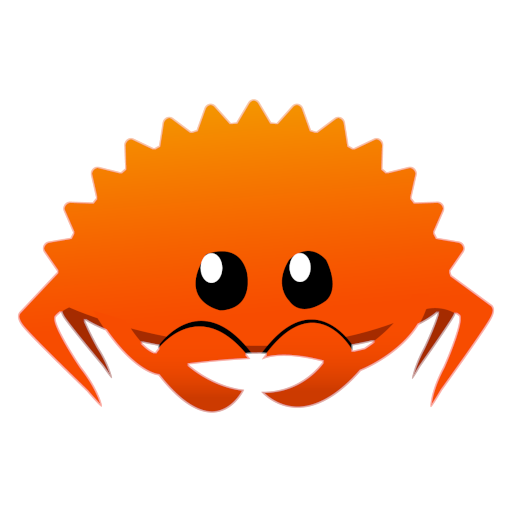
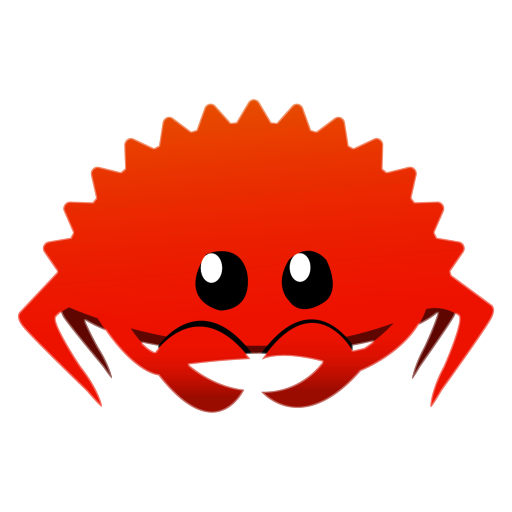
Implement correct gamma correction and post processing

diff --git a/client/src/ec/mod.rs b/client/src/ec/mod.rs
@@ -1,15 +1,28 @@
-use std::ops::{Deref, DerefMut};
+use std::{
+  num::NonZeroU32,
+  ops::{Deref, DerefMut},
+};
 
 use game_core::ec::{register_common_components, register_common_systems, DeltaTime};
+use golem::{ElementBuffer, GeometryMode, Surface, Texture, UniformValue, VertexBuffer};
 use specs::{Dispatcher, DispatcherBuilder};
 use specs::{World, WorldExt};
 use user_input::PointerState;
 
-use crate::{global, render::{DrawingCtx, GraphicsCtx}, webapi_utils::perf_now_f64};
+use crate::{
+  global,
+  render::{view::ViewportInfo, DrawingCtx, GraphicsCtx, ViewportSize},
+  webapi_utils::perf_now_f64,
+};
 
 pub mod components;
 pub mod systems;
 pub mod user_input;
+
+#[derive(Debug, Clone, Copy, Default)]
+pub struct BlurFlags {
+  pub motion_blur_dy: f32,
+}
 
 pub const GAME_SPEED: f32 = 1f32;
 
@@ -18,6 +31,9 @@ pub struct EcCtx {
   game_dispatch: Dispatcher<'static, 'static>,
   render_dispatch: Dispatcher<'static, 'static>,
   last_time: f64,
+  render_surface: Surface,
+  postprocess_quad_buf: VertexBuffer,
+  postprocess_quad_ele: ElementBuffer,
 }
 
 impl EcCtx {
@@ -27,12 +43,30 @@ impl EcCtx {
     register_client_components(&mut world);
     world.insert(DeltaTime::default());
     world.insert(PointerState::default());
+    world.insert(BlurFlags::default());
     world.maintain();
+    let glctx = &graphics.glctx;
+    let mut buf = VertexBuffer::new(glctx).unwrap();
+    buf.set_data(&[
+      -1f32, -1f32, // bl
+      1f32, -1f32, // br
+      1f32, 1f32, // tr
+      -1f32, 1f32, // tl
+    ]);
+    let mut ele = ElementBuffer::new(glctx).unwrap();
+    ele.set_data(&[
+      1, 2, 0, // /|
+      3, // |/
+    ]);
     EcCtx {
       world,
       game_dispatch: build_game_dispatch(),
       render_dispatch: build_render_dispatch(graphics),
       last_time: perf_now_f64(),
+      render_surface: Surface::new(&graphics.glctx, Texture::new(&graphics.glctx).unwrap())
+        .unwrap(),
+      postprocess_quad_buf: buf,
+      postprocess_quad_ele: ele,
     }
   }
 
@@ -53,10 +87,65 @@ impl EcCtx {
     self.world.maintain();
   }
 
+  pub fn resize(&mut self, gctx: &GraphicsCtx) {
+    let ViewportSize {
+      real_width,
+      real_height,
+      ..
+    } = *gctx.viewport_size.borrow();
+    self.render_surface.bind();
+    let mut tex = self.render_surface.take_texture().unwrap();
+    tex.set_image(None, real_width, real_height, golem::ColorFormat::RGB);
+    self.render_surface.put_texture(tex);
+    Surface::unbind(&gctx.glctx);
+  }
+
   pub fn render(&mut self, dctx: DrawingCtx) {
+    let glctx = dctx.glctx;
+    let ViewportSize {
+      real_width,
+      real_height,
+      ..
+    } = dctx.viewport.size;
+    self.render_surface.bind();
+    glctx.set_viewport(0, 0, real_width, real_height);
+    glctx.set_clear_color(
+      (51f32 / 255f32).powf(2.2f32),
+      0f32,
+      (102f32 / 255f32).powf(2.2f32),
+      1f32,
+    );
+    glctx.clear();
     self.world.insert(dctx);
     self.render_dispatch.dispatch(&self.world);
     self.world.remove::<DrawingCtx>();
+    Surface::unbind(glctx);
+    let tex = unsafe { self.render_surface.borrow_texture().unwrap() };
+    let mut shaders = dctx.shaders.borrow_mut();
+    let prog = &mut shaders.postprocess;
+    prog.bind();
+    tex.set_active(NonZeroU32::new(1).unwrap());
+    prog.set_uniform("tex", UniformValue::Int(1)).unwrap();
+    let blur_flags = self.world.read_resource::<BlurFlags>();
+    let view_height = dctx.viewport.tr.y - dctx.viewport.bl.y;
+    let dt = self.world.read_resource::<DeltaTime>().as_secs_f32();
+    prog
+      .set_uniform(
+        "mb_dist",
+        UniformValue::Float(blur_flags.motion_blur_dy * dt / view_height / 2f32),
+      )
+      .unwrap();
+    drop(blur_flags);
+    unsafe {
+      prog
+        .draw(
+          &self.postprocess_quad_buf,
+          &self.postprocess_quad_ele,
+          0..4,
+          GeometryMode::TriangleStrip,
+        )
+        .unwrap();
+    }
     self.pointer_state_mut().frame();
   }
 

diff --git a/client/src/world_manager/mod.rs b/client/src/world_manager/mod.rs
@@ -1,14 +1,10 @@
 use std::collections::HashMap;
 
-use crate::{
-  ec::components::{
+use crate::{ec::{BlurFlags, components::{
     bell::OurJumpableBell,
     player::{OurPlayer, OurPlayerState},
     DrawImage,
-  },
-  global,
-  render::view::view_matrix,
-};
+  }}, global, render::{view::view_matrix, ViewportSize}};
 use crate::{ec::EcCtx, render::view::ViewportInfo};
 use game_core::{
   ec::{
@@ -91,11 +87,11 @@ impl WorldManager {
     }
   }
 
-  pub fn calculate_camera(&mut self, ec: &EcCtx, width: u32, height: u32) -> ViewportInfo {
+  pub fn calculate_camera(&mut self, ec: &EcCtx, viewport_size: ViewportSize) -> ViewportInfo {
     let w = &ec.world;
     if self.me.is_none() {
       self.camera_y = CAMERA_INIT_Y;
-      return view_matrix(width, height, self.camera_y);
+      return view_matrix(viewport_size, self.camera_y);
     }
     let me = self.me.unwrap();
     let our_player_storage = w.read_storage::<OurPlayer>();
@@ -108,8 +104,11 @@ impl WorldManager {
       .position()
       .y;
     let player_v = w.read_storage::<Velocity>().get(me).unwrap().0.y;
+    let mut blur_flags = w.write_resource::<BlurFlags>();
+    blur_flags.motion_blur_dy = 0f32;
     if player_state.state == OurPlayerState::Falling
       && player_y < {
+        let ViewportSize { width, height, .. } = viewport_size;
         // calculate threshold y before camera cut to ground.
         let mut visible_height = STAGE_MIN_HEIGHT;
         if height > width {
@@ -125,14 +124,17 @@ impl WorldManager {
         OurPlayerState::NotStarted => CAMERA_INIT_Y,
       };
       let dt = ec.world.read_resource::<DeltaTime>().as_secs_f32();
-      if target_y - cam_y > CAMERA_TARGET_EPSILON {
-        cam_y += dt * CAMERA_SPEED_MUL * (target_y - cam_y);
-      } else if cam_y - target_y > CAMERA_TARGET_EPSILON {
-        cam_y -= dt * CAMERA_SPEED_MUL * (cam_y - target_y);
+      let diff = target_y - cam_y;
+      if diff.abs() > CAMERA_TARGET_EPSILON {
+        let v = CAMERA_SPEED_MUL * diff;
+        cam_y += dt * v;
+        if v < -5f32 {
+          blur_flags.motion_blur_dy = -v;
+        }
       }
     }
     // cam_y += (player_v * 0.5).min(CAMERA_MAX_SPEED) * dt;
     self.camera_y = cam_y;
-    view_matrix(width, height, cam_y)
+    view_matrix(viewport_size, cam_y)
   }
 }

diff --git a/client/src/render/mod.rs b/client/src/render/mod.rs
@@ -14,15 +14,23 @@ pub mod image_texture;
 pub mod shader_program;
 pub mod view;
 
+#[derive(Debug, Default, Clone, Copy)]
+pub struct ViewportSize {
+  pub width: u32,
+  pub height: u32,
+  pub real_width: u32,
+  pub real_height: u32
+}
+
 pub struct GraphicsCtx {
   pub glctx: golem::Context,
   pub canvas: HtmlCanvasElement,
-  pub viewport_size: RefCell<(u32, u32)>,
+  pub viewport_size: RefCell<ViewportSize>,
   pub shaders: RefCell<Shaders>,
   pub images: image_texture::Images,
 }
 
-#[derive(Clone)]
+#[derive(Copy, Clone)]
 pub struct DrawingCtx {
   pub glctx: &'static golem::Context,
   pub viewport: ViewportInfo,
@@ -66,16 +74,17 @@ impl GraphicsCtx {
     Ok(GraphicsCtx {
       glctx,
       canvas: ele,
-      viewport_size: RefCell::new((0u32, 0u32)),
+      viewport_size: RefCell::new(ViewportSize::default()),
       shaders: RefCell::new(shaders),
       images,
     })
   }
 
-  pub fn resize(&self, width: u32, height: u32, real_width: u32, real_height: u32) {
+  pub fn resize(&self, new_size: ViewportSize) {
+    self.viewport_size.replace(new_size);
+    let ViewportSize { real_width, real_height, .. } = new_size;
     self.canvas.set_width(real_width);
     self.canvas.set_height(real_height);
-    self.viewport_size.replace((width, height));
     self.glctx.set_viewport(0, 0, real_width, real_height);
   }
 
@@ -85,8 +94,6 @@ impl GraphicsCtx {
     glctx.set_blend_mode(Some(BlendMode::default()));
     glctx.set_depth_test_mode(None);
     // glctx.set_clear_color(0.9765f32, 0.9686f32, 0.9255f32, 1f32);
-    glctx.set_clear_color(51f32 / 255f32, 0f32, 102f32 / 255f32, 1f32);
-    glctx.clear();
 
     DrawingCtx {
       glctx,

diff --git a/client/src/lib.rs b/client/src/lib.rs
@@ -3,7 +3,7 @@ use std::{cell::RefCell, unreachable};
 
 use ec::EcCtx;
 use global::Context;
-use render::GraphicsCtx;
+use render::{GraphicsCtx, ViewportSize};
 use wasm_bindgen::JsCast;
 use wasm_bindgen::{closure::Closure, prelude::*};
 use web_sys::{AddEventListenerOptions, MouseEvent, TouchEvent};
@@ -75,18 +75,20 @@ pub fn client_init() {
 }
 
 fn handle_resize() {
-  let mut gr = &global::get_ref().graphics;
+  let gr = &global::get_ref().graphics;
   let window = web_sys::window().unwrap();
   let width = window.inner_width().unwrap().as_f64().unwrap();
   let height = window.inner_height().unwrap().as_f64().unwrap();
-  let real_pixel_width = width * window.device_pixel_ratio();
-  let real_pixel_height = height * window.device_pixel_ratio();
-  gr.resize(
-    width as u32,
-    height as u32,
-    real_pixel_width as u32,
-    real_pixel_height as u32,
-  );
+  let real_width = width * window.device_pixel_ratio();
+  let real_height = height * window.device_pixel_ratio();
+  gr.resize(ViewportSize {
+    width: width as u32,
+    height: height as u32,
+    real_width: real_width as u32,
+    real_height: real_height as u32,
+  });
+  let mut ec = global::get_ref().ec.borrow_mut();
+  ec.resize(gr);
 }
 
 fn handle_resize_evt(_evt: JsValue) {
@@ -167,7 +169,7 @@ fn handle_redraw() {
     let mut wm = global.world_manager.borrow_mut();
     wm.update(&mut ec);
     let size = *gr.viewport_size.borrow();
-    viewport = wm.calculate_camera(&ec, size.0, size.1);
+    viewport = wm.calculate_camera(&ec, size);
   }
   ec.pointer_state_mut().recalculate_raycast(&viewport);
   let dctx = gr.prepare_render(viewport);

diff --git a/client/src/render/view.rs b/client/src/render/view.rs
@@ -1,20 +1,21 @@
 use game_core::{STAGE_MAX_X, STAGE_MIN_HEIGHT, STAGE_MIN_X, STAGE_WIDTH};
 use glam::f32::*;
 
-#[derive(Debug, Clone, Default)]
+use super::ViewportSize;
+
+#[derive(Debug, Clone, Copy, Default)]
 pub struct ViewportInfo {
   pub view_matrix: Mat4,
   pub tr: Vec2,
   pub bl: Vec2,
-  pub width: u32,
-  pub height: u32,
+  pub size: ViewportSize,
 }
 
 impl ViewportInfo {
   pub fn raycast(&self, pixel_x: u32, pixel_y: u32) -> Vec2 {
     Vec2::new(
-      self.bl.x + pixel_x as f32 / self.width as f32 * (self.tr.x - self.bl.x),
-      self.bl.y + pixel_y as f32 / self.height as f32 * (self.tr.y - self.bl.y),
+      self.bl.x + pixel_x as f32 / self.size.width as f32 * (self.tr.x - self.bl.x),
+      self.bl.y + pixel_y as f32 / self.size.height as f32 * (self.tr.y - self.bl.y),
     )
   }
 }
@@ -41,7 +42,8 @@ pub fn affine_2d_to_3d(transform: Mat3) -> Mat4 {
   .transpose()
 }
 
-pub fn view_matrix(width: u32, height: u32, camera_y: f32) -> ViewportInfo {
+pub fn view_matrix(viewport_size: ViewportSize, camera_y: f32) -> ViewportInfo {
+  let ViewportSize { width, height, .. } = viewport_size;
   let aspect_ratio = (width as f32) / (height as f32);
   let mut bl = Vec2::new(STAGE_MIN_X, camera_y);
   let mut tr = Vec2::new(STAGE_MAX_X, camera_y + STAGE_MIN_HEIGHT);
@@ -74,7 +76,6 @@ pub fn view_matrix(width: u32, height: u32, camera_y: f32) -> ViewportInfo {
     view_matrix,
     tr,
     bl,
-    width,
-    height,
+    size: viewport_size,
   }
 }

diff --git a/client/src/render/shader_program.rs b/client/src/render/shader_program.rs
@@ -4,6 +4,7 @@ use golem::{Attribute, AttributeType, ShaderDescription, ShaderProgram, Uniform,
 pub struct Shaders {
   pub debug_rect: ShaderProgram,
   pub image: ShaderProgram,
+  pub postprocess: ShaderProgram,
 }
 fn fix_shader_source(source: &'static str) -> &'static str {
   if let Some(sep_comment_start) = source.find("////\n") {
@@ -49,6 +50,19 @@ impl Shaders {
           vertex_shader: src!("./shaders/image.vert.glsl"),
           fragment_shader: src!("./shaders/image.frag.glsl"),
         },
+      )?,
+      postprocess: ShaderProgram::new(
+        glctx,
+        ShaderDescription {
+          vertex_input: &[Attribute::new("aVertexPosition", AttributeType::Vector(D2))],
+          fragment_input: &[Attribute::new("oTexCord", AttributeType::Vector(D2))],
+          uniforms: &[
+            Uniform::new("tex", UniformType::Sampler2D),
+            Uniform::new("mb_dist", UniformType::Scalar(golem::NumberType::Float)),
+          ],
+          vertex_shader: src!("./shaders/postprocess.vert.glsl"),
+          fragment_shader: src!("./shaders/postprocess.frag.glsl"),
+        }
       )?,
     })
   }

diff --git a/client/src/ec/systems/our_player.rs b/client/src/ec/systems/our_player.rs
@@ -5,7 +5,7 @@ use game_core::ec::{
   DeltaTime,
 };
 use glam::f32::*;
-use specs::{Entities, Entity, Join, Read, ReadStorage, System, WriteStorage};
+use specs::{Entities, Entity, Join, Read, ReadStorage, System, Write, WriteStorage};
 
 use crate::ec::{
   components::{
@@ -15,6 +15,7 @@ use crate::ec::{
     DrawImage,
   },
   user_input::PointerState,
+  BlurFlags,
 };
 
 use super::collision_star;
